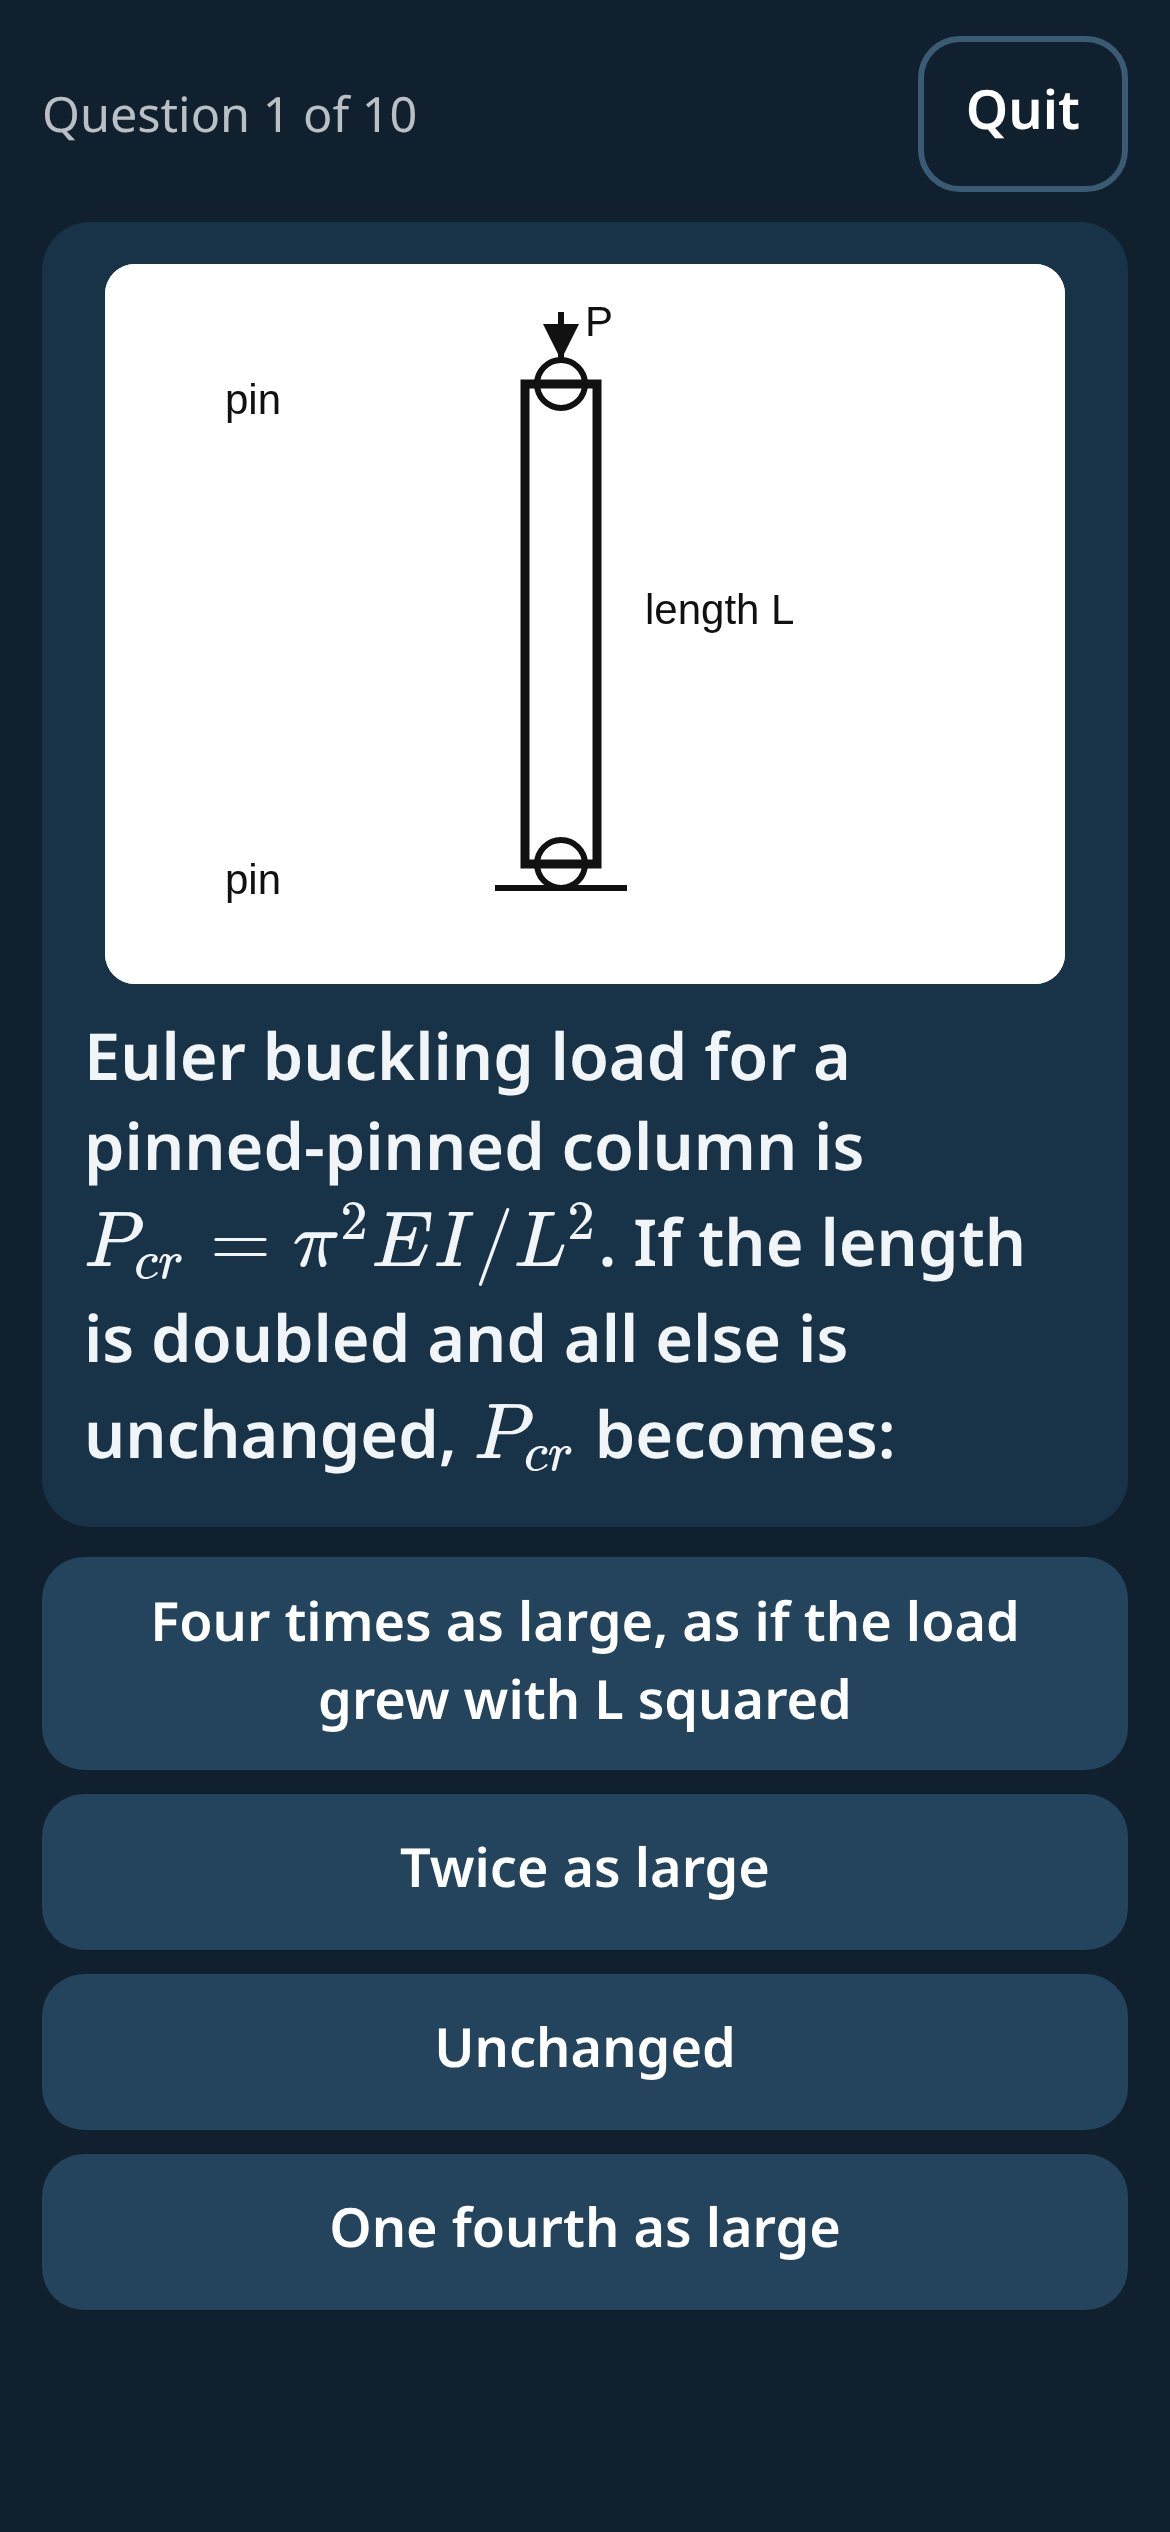
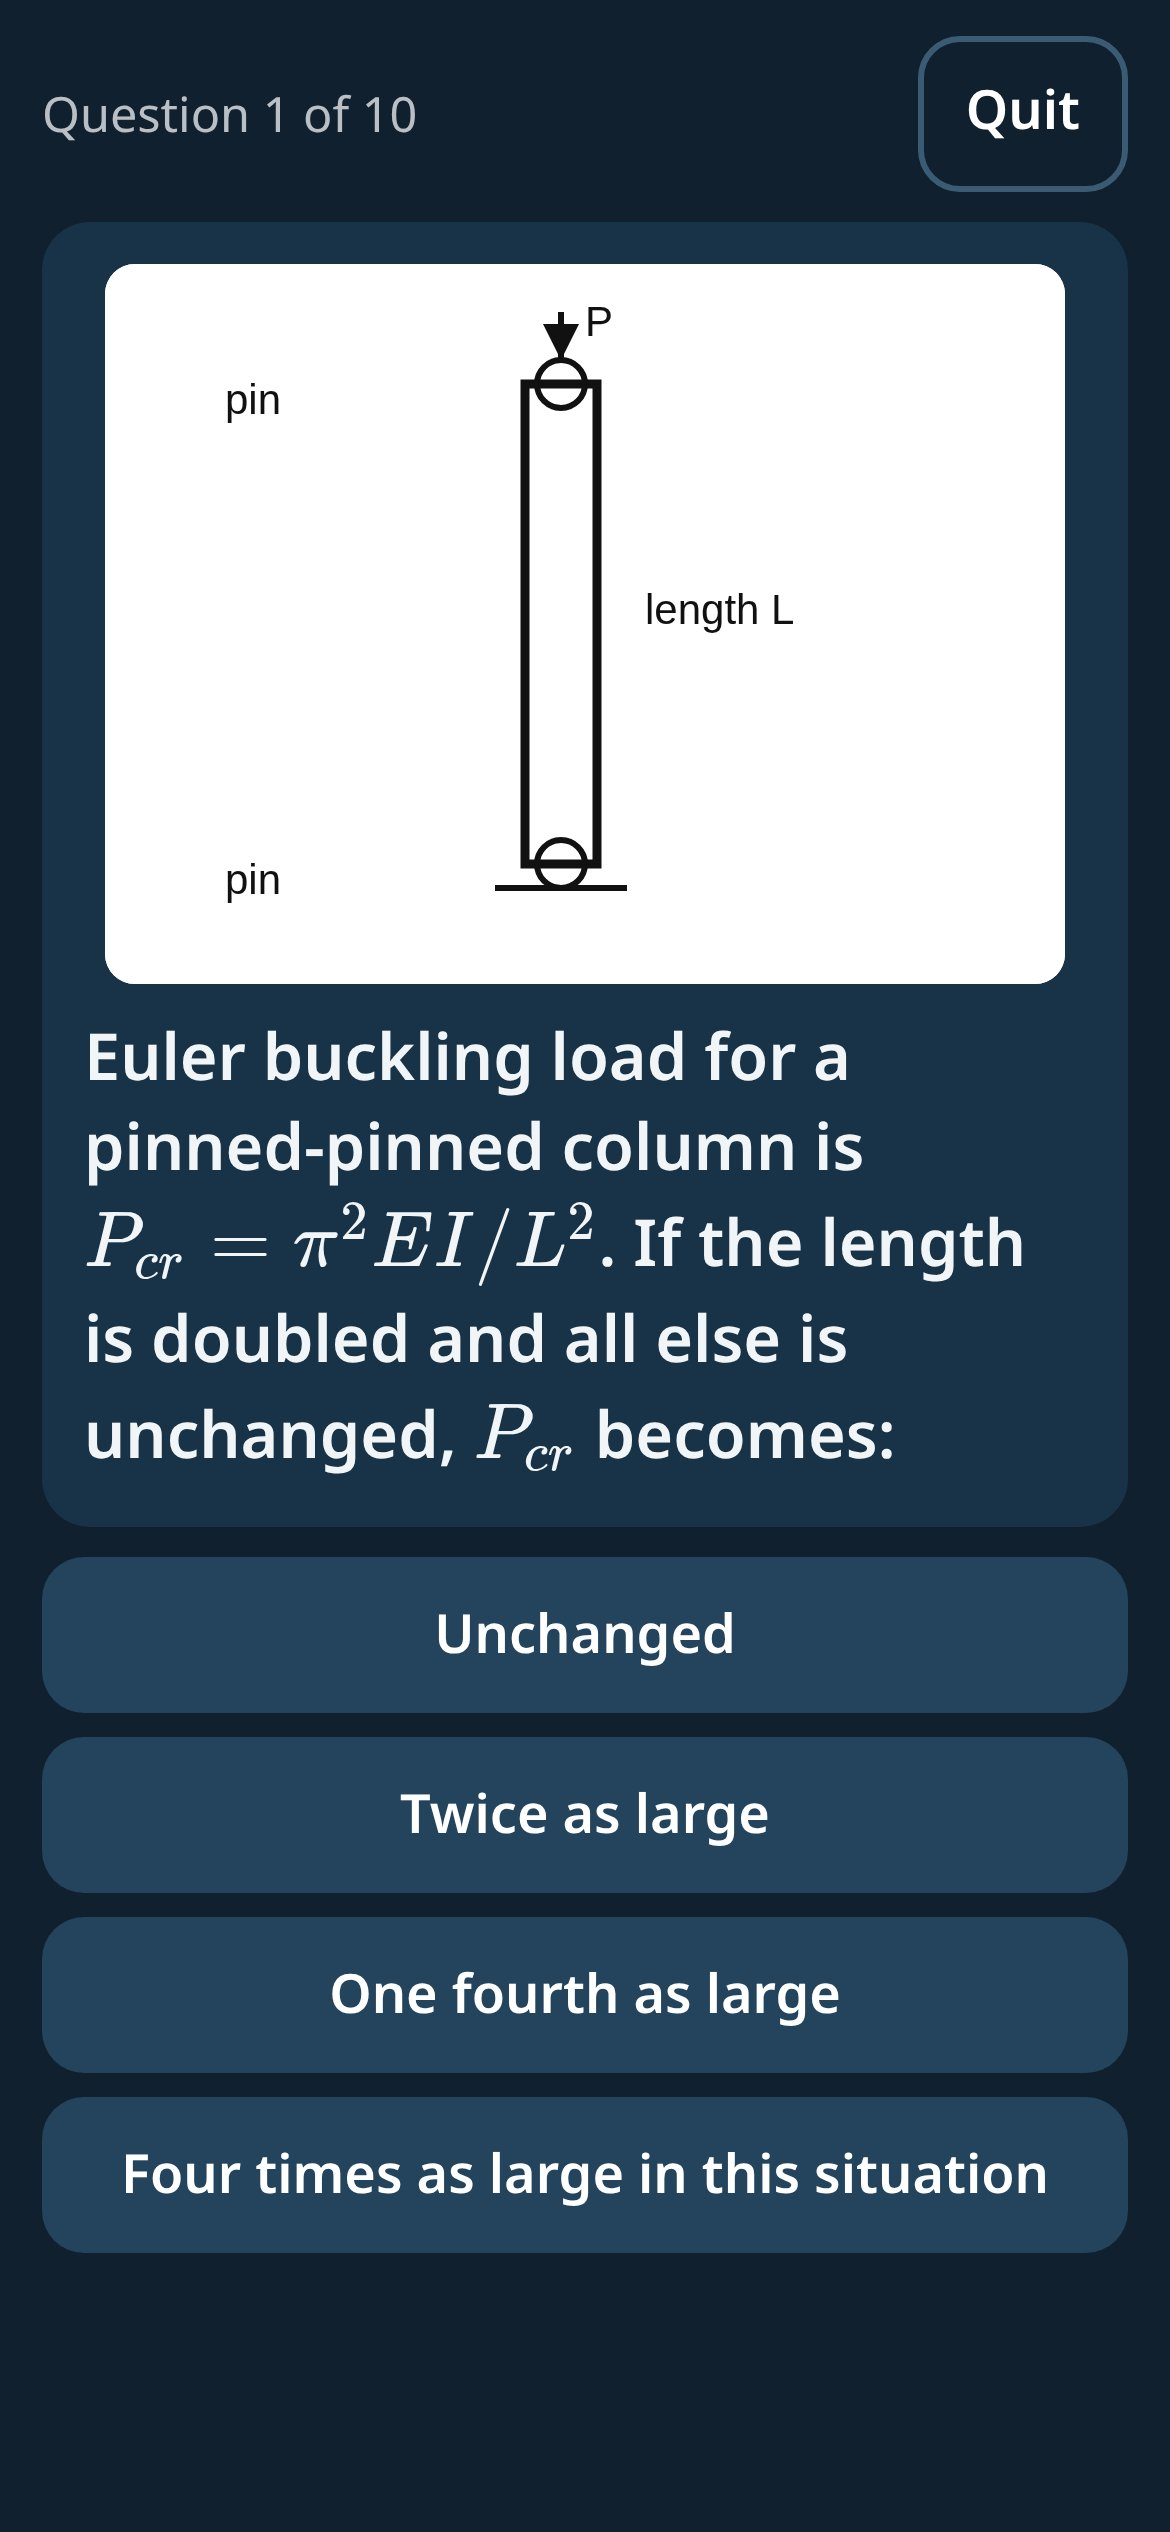
v22: refresh Engineer Practice screenshots and the 320 overflow test
Official JPG shots retaken after the v22 rebuild. The overflow check
now seeds a profile and sets the practice screen without a reload.

Changed region(s): [[0.0308, 0.624, 0.9846, 0.936]]

diff --git a/tests/practice.js b/tests/practice.js
@@ -313,10 +313,12 @@ function serve() {
     const ctx = await browser.newContext({ viewport: { width: 320, height: 568 }, deviceScaleFactor: 2, isMobile: true, hasTouch: true });
     const page = await ctx.newPage();
     await page.goto(base, { waitUntil: 'load' });
-    await page.click('[data-act=newprof]');
-    await page.fill('#nm', 'Alex');
-    await page.click('[data-act=age][data-a=adult]');
-    await page.click('[data-act=saveprof]');
+    await page.evaluate(() => {
+      var S = LSA.newSave();
+      LSA.addProfile(S, 'Alex', 'adult');
+      localStorage.setItem('lsa_save', LSA.dumpSave(S));
+    });
+    await page.reload({ waitUntil: 'load' });
     await page.waitForTimeout(200);
     const ids = await page.evaluate(() => LSA.practiceDecks().reduce((a, id) => a.concat(LSA.decks[id].cards.map(c => c.id)), []));
     const overflows = [];
@@ -325,6 +327,7 @@ function serve() {
         const S = LSA.UI.S(), p = S.profiles[S.active];
         p.ep = { mode: 'ep', rs: 1, today: 1, q: [{ id: id, order: [0, 1, 2, 3], pick: stage === 'fix' ? 1 : null, conf: stage === 'fix' ? 1 : null, again: false, right: stage === 'fix' }], i: 0, stage: stage, again: {}, wows: [], right: 0 };
         S.screen = 'ep';
+        LSA.UI.U.screen = 'ep';
         LSA.UI.render();
       }, { id, stage });
       await page.evaluate(() => new Promise(r => requestAnimationFrame(() => requestAnimationFrame(r))));
@@ -358,6 +361,7 @@ function serve() {
         { id: 'fe002', order: [0, 1, 2, 3], pick: 0, conf: 1, right: true, again: true }
       ], i: 0, stage: 'done', again: {}, wows: ['fe001'], right: 1, carried: [] };
       S.screen = 'ep';
+      LSA.UI.U.screen = 'ep';
       LSA.UI.render();
     });
     const recap = await page.evaluate(() => ({
